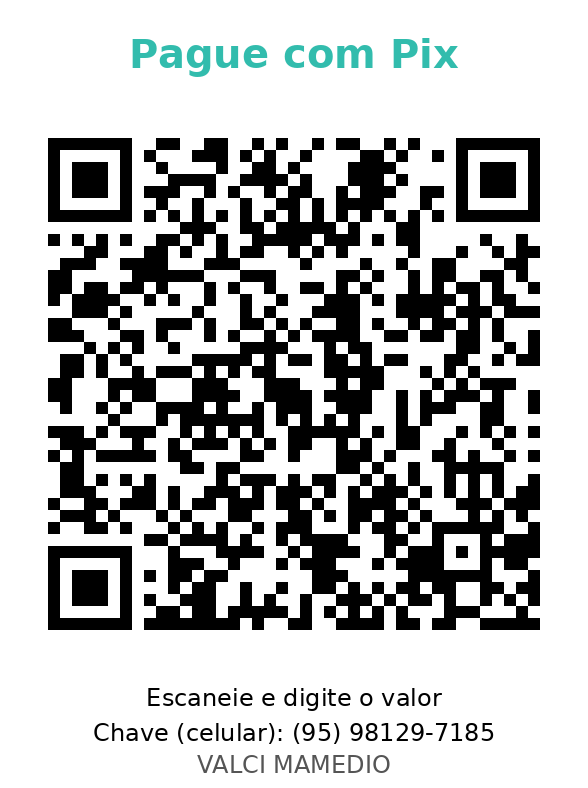
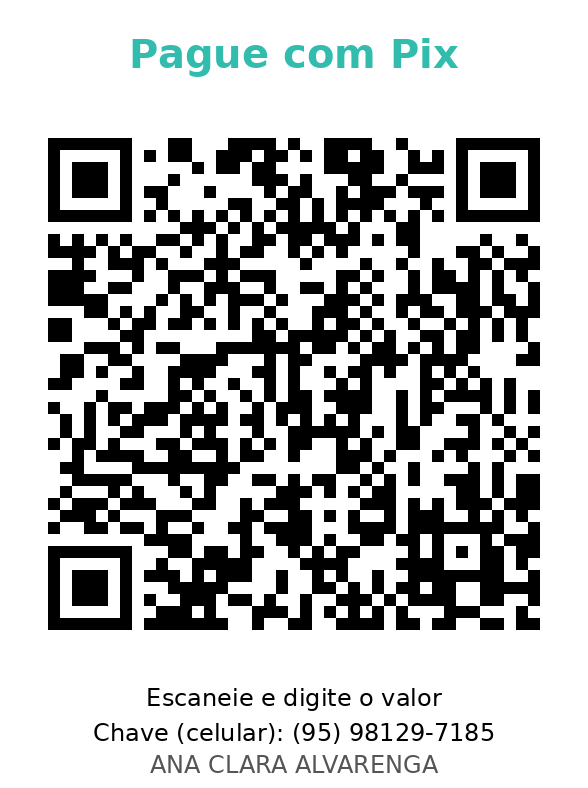
Altera nome do QR Code Pix para Ana Clara Alvarenga
Claude-Session: https://claude.ai/code/session_01UrdWWyTJKrtDsuV1kNKtcN

diff --git a/gerar_pix.py b/gerar_pix.py
@@ -13,7 +13,7 @@ from PIL import Image, ImageDraw, ImageFont
 
 # ---- Configuração ----------------------------------------------------------
 CHAVE_PIX = "+5595981297185"   # chave do tipo telefone: (95) 98129-7185
-NOME = "VALCI MAMEDIO"         # até 25 caracteres
+NOME = "ANA CLARA ALVARENGA"        # até 25 caracteres
 CIDADE = "BOA VISTA"           # até 15 caracteres
 TXID = "***"                   # "***" = sem identificador específico
 # ---------------------------------------------------------------------------
